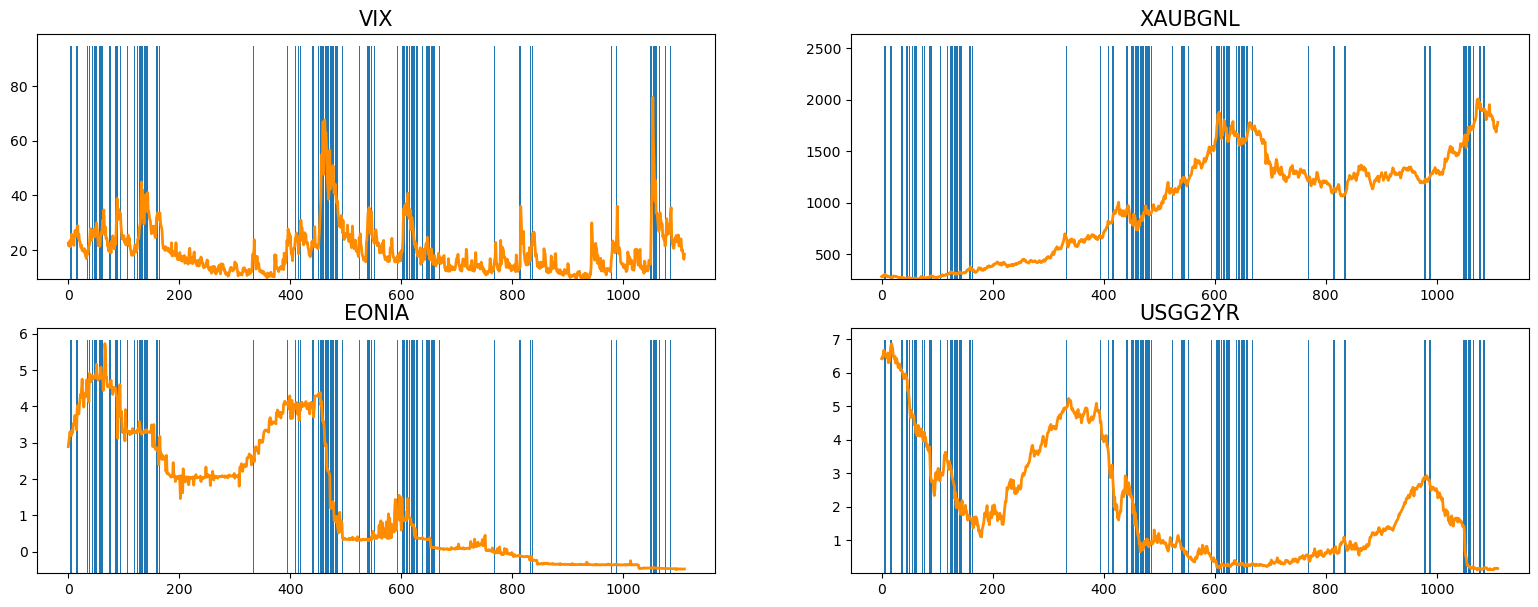
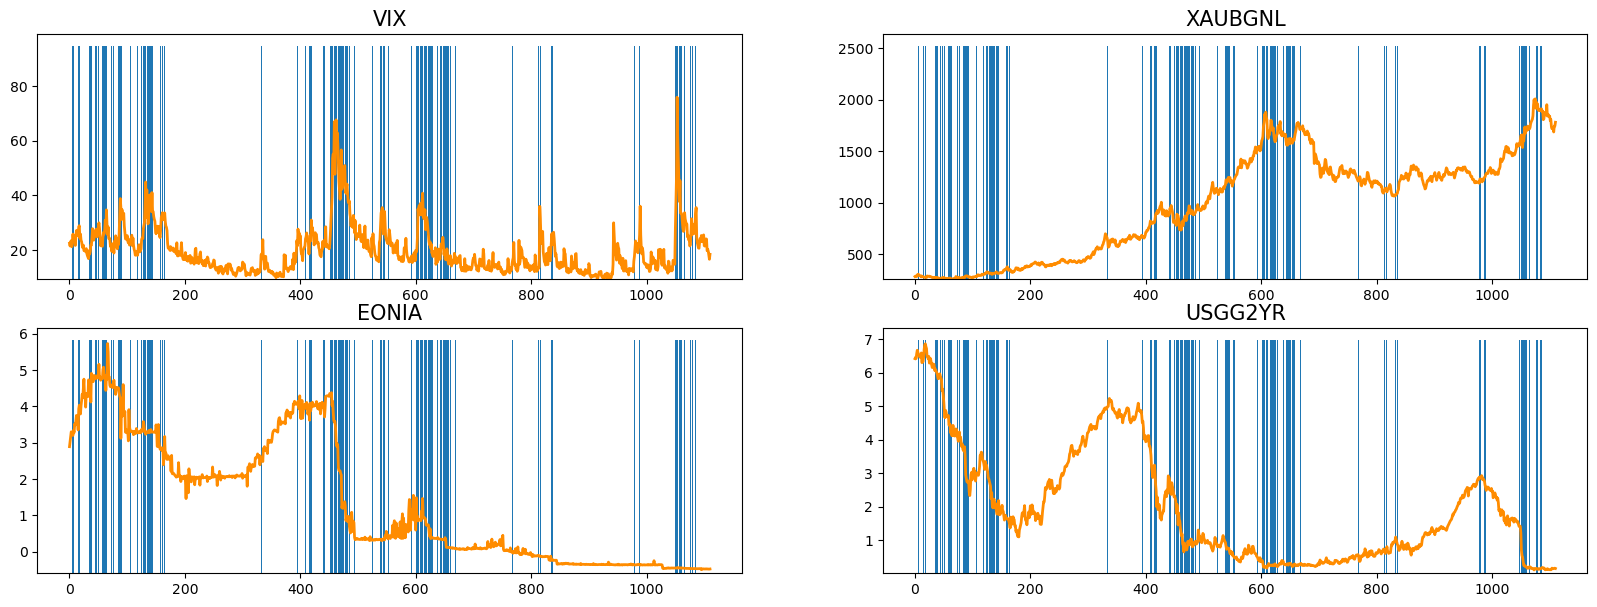
readme

diff --git a/plotter.py b/plotter.py
@@ -89,8 +89,24 @@ for i in range(2):
         axs[i,j].bar(x=anomaly_indices, height=ub, bottom = lb)
         axs[i,j].set_title(feature_name_2, fontsize=15)
         count += 1
-plt.show()
+# plt.show()
 fig.savefig('plots' + os.sep + 'VIX_XAUBGNL_EONIA_USGG2YR', bbox_inches='tight')
+
+df_stat = pd.DataFrame(d_stationary)
+fig, axs = plt.subplots(2, 2, figsize = (20,7))
+count = 0
+for i in range(2):
+    for j in range(2):
+        feature_name_2 = plot_names[count]
+        axs[i,j].plot(df_stat[feature_name_2], linewidth = 2, color = "darkorange")
+        anomaly_indices=np.argwhere(y_cat[:,0] == 1)[:,0]
+        lb = np.min(df_stat[feature_name_2])-0.1
+        ub = np.abs(lb) + np.max(df_stat[feature_name_2])+0.1
+        axs[i,j].bar(x=anomaly_indices, height=ub, bottom = lb)
+        axs[i,j].set_title(feature_name_2, fontsize=15)
+        count += 1
+plt.show()
+fig.savefig('plots' + os.sep + 'VIX_XAUBGNL_EONIA_USGG2YR_stationary', bbox_inches='tight')
 
 
 

diff --git a/README.md b/README.md
@@ -18,6 +18,9 @@ In this project we use [copulas](https://arxiv.org/abs/2009.09463) and k-NN coup
 
 Feel free to visit [this link](https://github.com/MicheleDiSabato/detecting-abnormal-markets-ews/blob/main/report_slides.pdf) for more details.
 
-The dataset is composed of 42 time series, corresponsing to the time evolution of 42 indices from [Bloomberg](https://www.bloomberg.com/europe), for example:
+The dataset is composed of 42 time series, corresponsing to the time evolution of 42 indices from [Bloomberg](https://www.bloomberg.com/europe):
 ![VIX_XAUBGNL_EONIA_USGG2YR](plots/VIX_XAUBGNL_EONIA_USGG2YR.png)
 The blue lines correspond to risk-off (anomalous) weeks, while the white regions are risk-on (normal) periods. 
+
+To improve the classification performance, we transformed the data to make it stationary, passing to the logarithm (for non negative indices) or to finite differences. For example, the previous four indices become:
+![VIX_XAUBGNL_EONIA_USGG2YR_stationary](plots/VIX_XAUBGNL_EONIA_USGG2YR_stationary.png)
